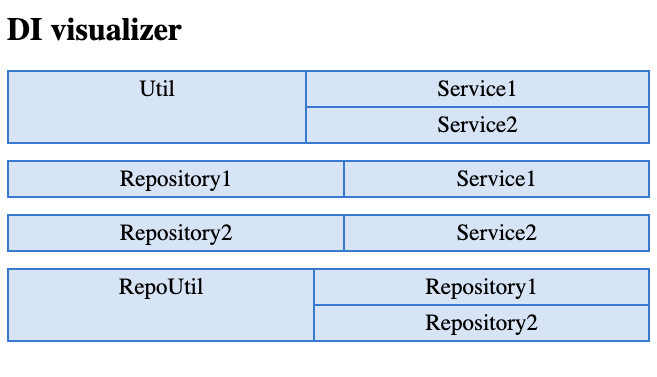
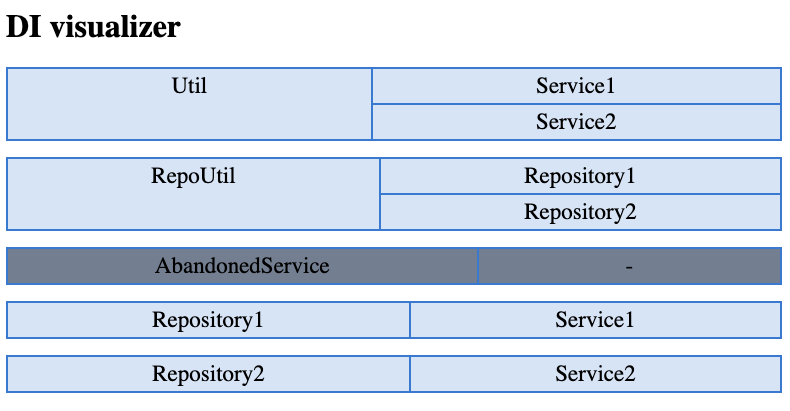
html fix

diff --git a/lib/src/commands/html_generator.dart b/lib/src/commands/html_generator.dart
@@ -1,6 +1,14 @@
 import 'package:analyzer/dart/element/type.dart';
 
 String generateHtmlFile(Map<String, Iterable<DartType>> serviceInfo) {
+  final Map<String, Iterable<String>> infoMap = serviceInfo.map((String key, Iterable<DartType> argList) {
+    final Iterable<String> paramSet = argList.map((DartType e) {
+      return e.getDisplayString(withNullability: false);
+    });
+
+    return MapEntry<String, Iterable<String>>(key, paramSet);
+  });
+
   final StringBuffer sb = StringBuffer();
 
   final StringBuffer stylesSb = StringBuffer();
@@ -8,12 +16,8 @@ String generateHtmlFile(Map<String, Iterable<DartType>> serviceInfo) {
 
   final Map<String, Set<String>> diMap = <String, Set<String>>{};
 
-  serviceInfo.forEach((String serviceName, Iterable<DartType> fieldList) {
-    final Iterable<String> paramSet = fieldList.map((DartType e) {
-      return e.getDisplayString(withNullability: false);
-    });
-
-    for (final String param in paramSet) {
+  infoMap.forEach((String serviceName, Iterable<String> args) {
+    for (final String param in args) {
       final Set<String>? curSet = diMap[param];
       if (curSet == null) {
         diMap[param] = <String>{serviceName};
@@ -24,48 +28,71 @@ String generateHtmlFile(Map<String, Iterable<DartType>> serviceInfo) {
   });
 
   // relations
-  diMap.forEach((String paramName, Set<String> relationSet) {
+  for (final String paramName in infoMap.keys) {
+    bool isAbandoned = false;
+    Set<String>? relationSet = diMap[paramName];
+    final Iterable<String> originArgs = infoMap[paramName] ?? <String>[];
+
+    // abandoned
+    if (relationSet == null && originArgs.isEmpty) {
+      relationSet = <String>{'-'};
+      isAbandoned = true;
+    }
+
+    //
+    if (relationSet == null) {
+      continue;
+    }
+
     final String gridDivs = relationSet.map((String name) {
-      return '<div>$name</div>';
+      final String css = isAbandoned ? 'abandoned' : '';
+      return '<div class="$css">$name</div>';
     }).join();
 
     // style
-    stylesSb.writeln('''
+    if (!isAbandoned) {
+      stylesSb.writeln('''
       .$paramName {
         grid-row-start: 1;
         grid-row-end: ${relationSet.length + 2};
       }
     ''');
+    }
 
     // grid
+    final String css = isAbandoned ? 'abandoned' : paramName;
     gridsSb.writeln('''
       <div class="grid-container">
-        <div class="$paramName">$paramName</div>
+        <div class="$css">$paramName</div>
         $gridDivs
       </div>
     ''');
-  });
+  }
 
   sb.writeln('''
     <!DOCTYPE html>
     <html>
         <head>
             <style>
-              .grid-container {
-                    display: grid;
-                    grid-template-columns: auto auto;
-                    background-color: #1a84db;
-                    padding: 1px;
-                    margin-bottom: 16px;
-                  }
+              .abandoned {
+                background-color: rgba(141, 139, 139, 0.8) !important;
+              }
 
-                  .grid-container>div {
-                    background-color: rgba(255, 255, 255, 0.8);
-                    text-align: center;
-                    padding: 4px 0px;
-                    font-size: 23px;
-                    margin: 1px;
-                  }
+              .grid-container {
+                  display: grid;
+                  grid-template-columns: auto auto;
+                  background-color: #1a84db;
+                  padding: 1px;
+                  margin-bottom: 16px;
+                }
+
+                .grid-container>div {
+                  background-color: rgba(255, 255, 255, 0.8);
+                  text-align: center;
+                  padding: 4px 0px;
+                  font-size: 23px;
+                  margin: 1px;
+                }
 
                 $stylesSb
             </style>

diff --git a/output.html b/output.html
@@ -3,6 +3,10 @@
 
 <head>
   <style>
+    .abandoned {
+      background-color: rgba(141, 139, 139, 0.8) !important;
+    }
+
     .grid-container {
       display: grid;
       grid-template-columns: auto auto;
@@ -24,6 +28,11 @@
       grid-row-end: 4;
     }
 
+    .RepoUtil {
+      grid-row-start: 1;
+      grid-row-end: 4;
+    }
+
     .Repository1 {
       grid-row-start: 1;
       grid-row-end: 3;
@@ -33,11 +42,6 @@
       grid-row-start: 1;
       grid-row-end: 3;
     }
-
-    .RepoUtil {
-      grid-row-start: 1;
-      grid-row-end: 4;
-    }
   </style>
 </head>
 
@@ -46,24 +50,29 @@
 
   <div class="grid-container">
     <div class="Util">Util</div>
-    <div>Service1</div>
-    <div>Service2</div>
-  </div>
-
-  <div class="grid-container">
-    <div class="Repository1">Repository1</div>
-    <div>Service1</div>
-  </div>
-
-  <div class="grid-container">
-    <div class="Repository2">Repository2</div>
-    <div>Service2</div>
+    <div class="">Service1</div>
+    <div class="">Service2</div>
   </div>
 
   <div class="grid-container">
     <div class="RepoUtil">RepoUtil</div>
-    <div>Repository1</div>
-    <div>Repository2</div>
+    <div class="">Repository1</div>
+    <div class="">Repository2</div>
+  </div>
+
+  <div class="grid-container">
+    <div class="abandoned">AbandonedService</div>
+    <div class="abandoned">-</div>
+  </div>
+
+  <div class="grid-container">
+    <div class="Repository1">Repository1</div>
+    <div class="">Service1</div>
+  </div>
+
+  <div class="grid-container">
+    <div class="Repository2">Repository2</div>
+    <div class="">Service2</div>
   </div>
 
 

diff --git a/example/example.dart b/example/example.dart
@@ -29,6 +29,9 @@ class Util {}
 class RepoUtil {}
 
 @diService
+class AbandonedService {}
+
+@diService
 class Repository1 {
   Repository1(this.repoUtil);
 

diff --git a/CHANGELOG.md b/CHANGELOG.md
@@ -1,3 +1,5 @@
+## 0.3.2
+    html fix
 ## 0.3.1
     added html output format
 ## 0.2.1
